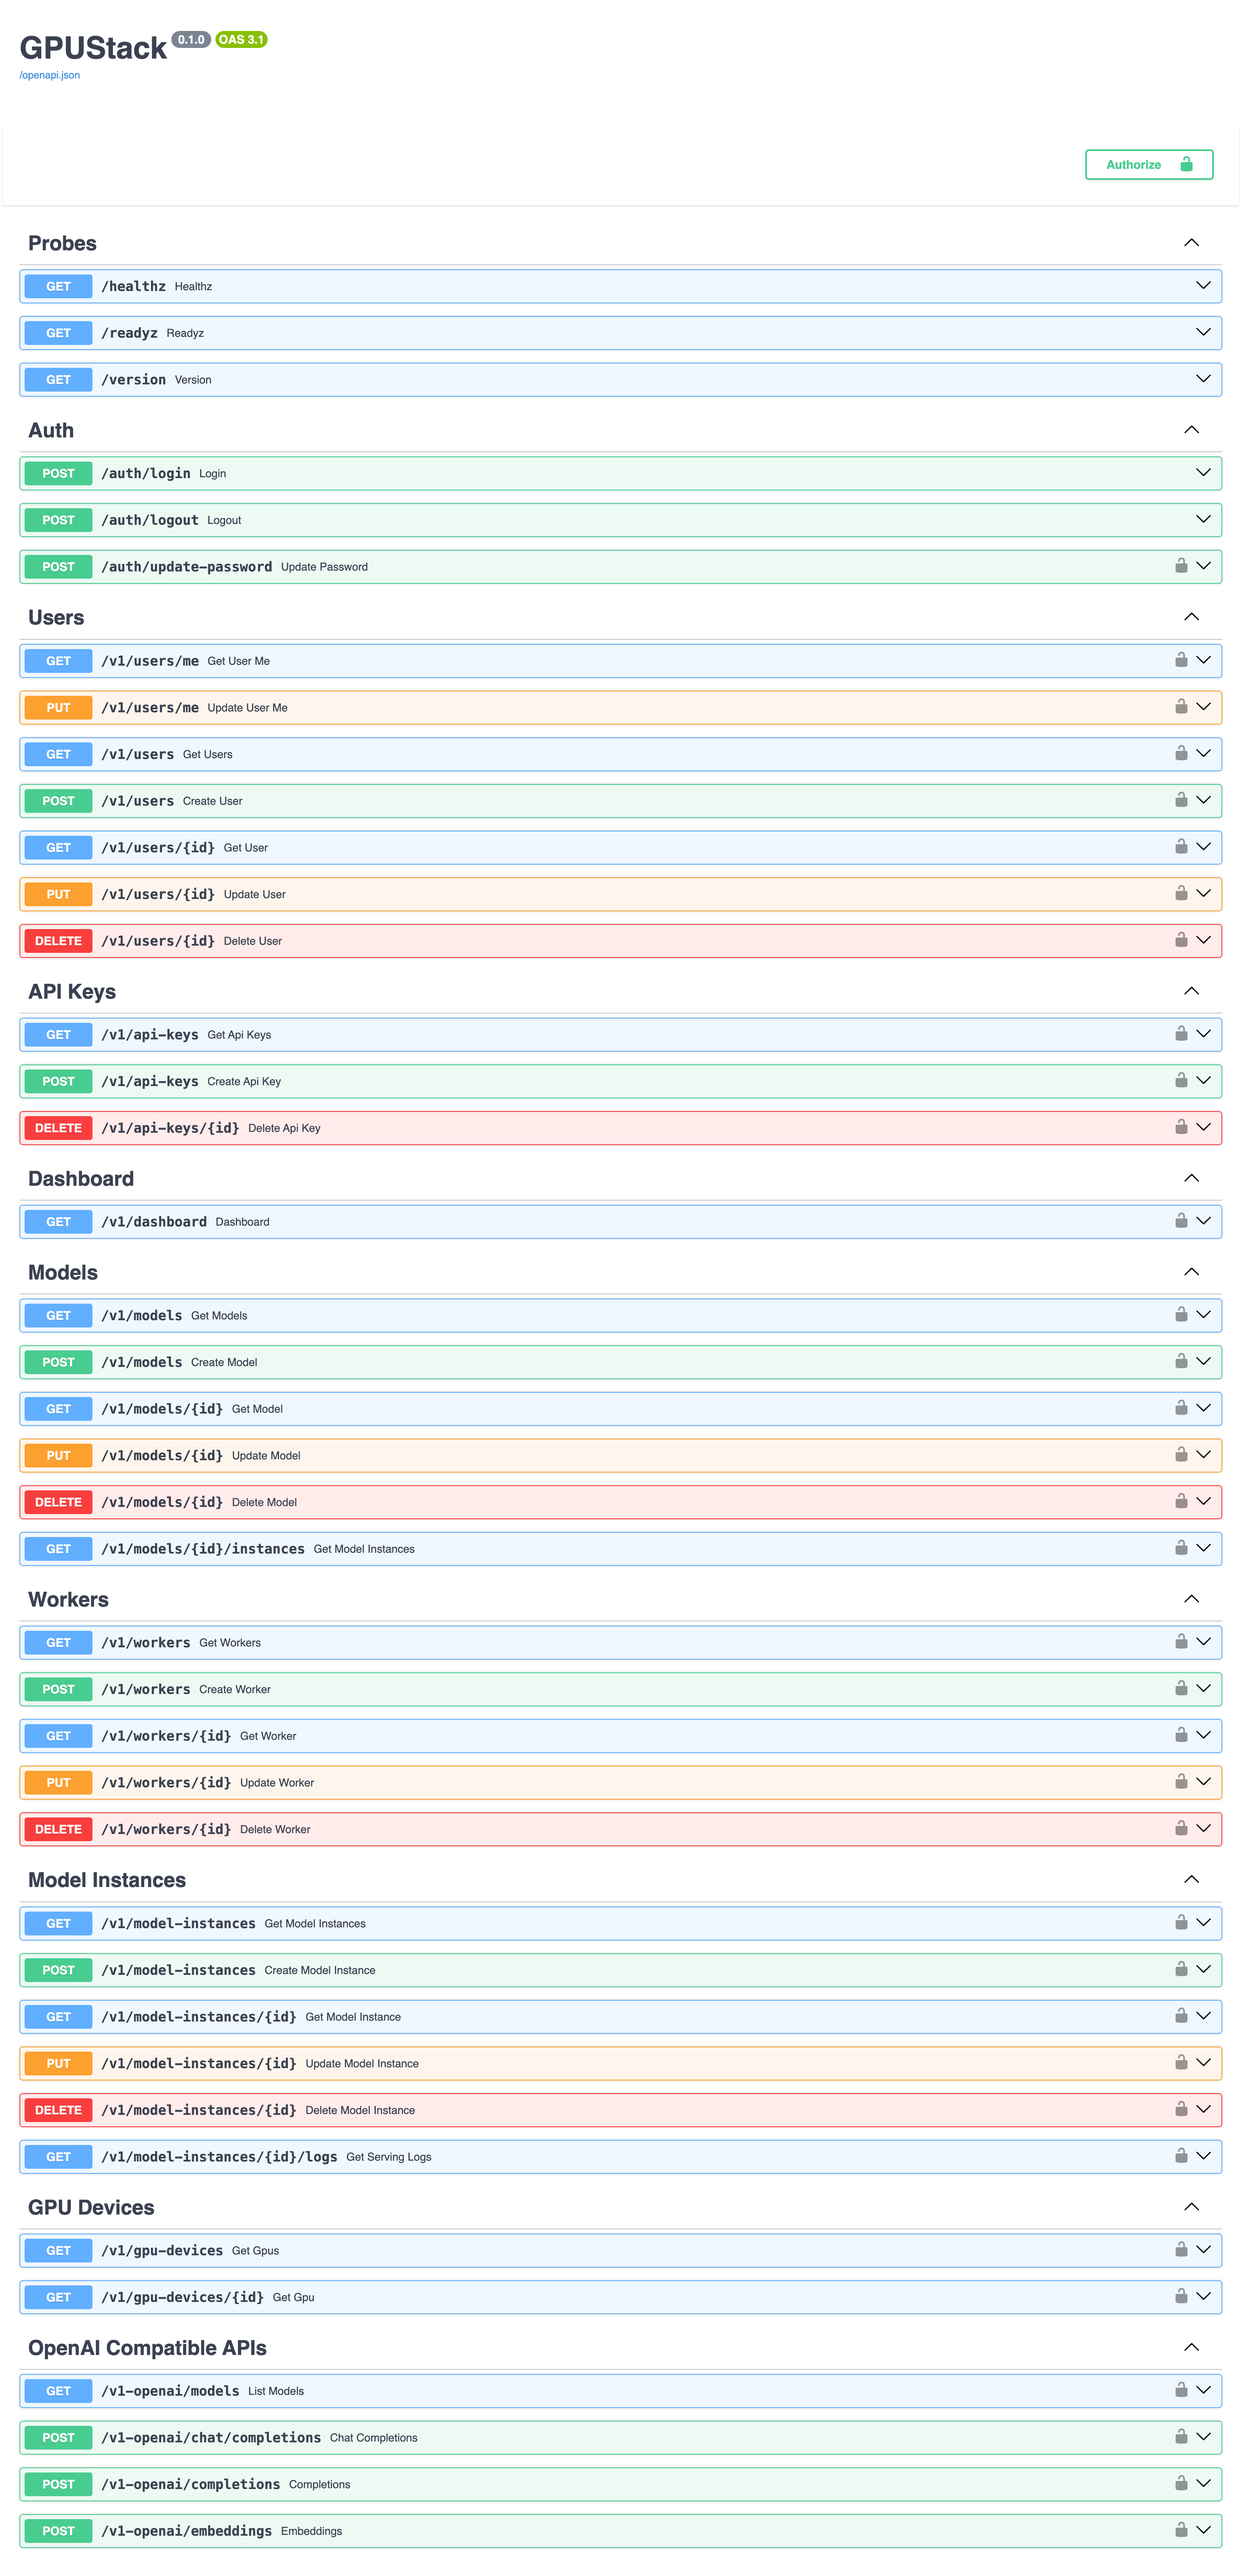
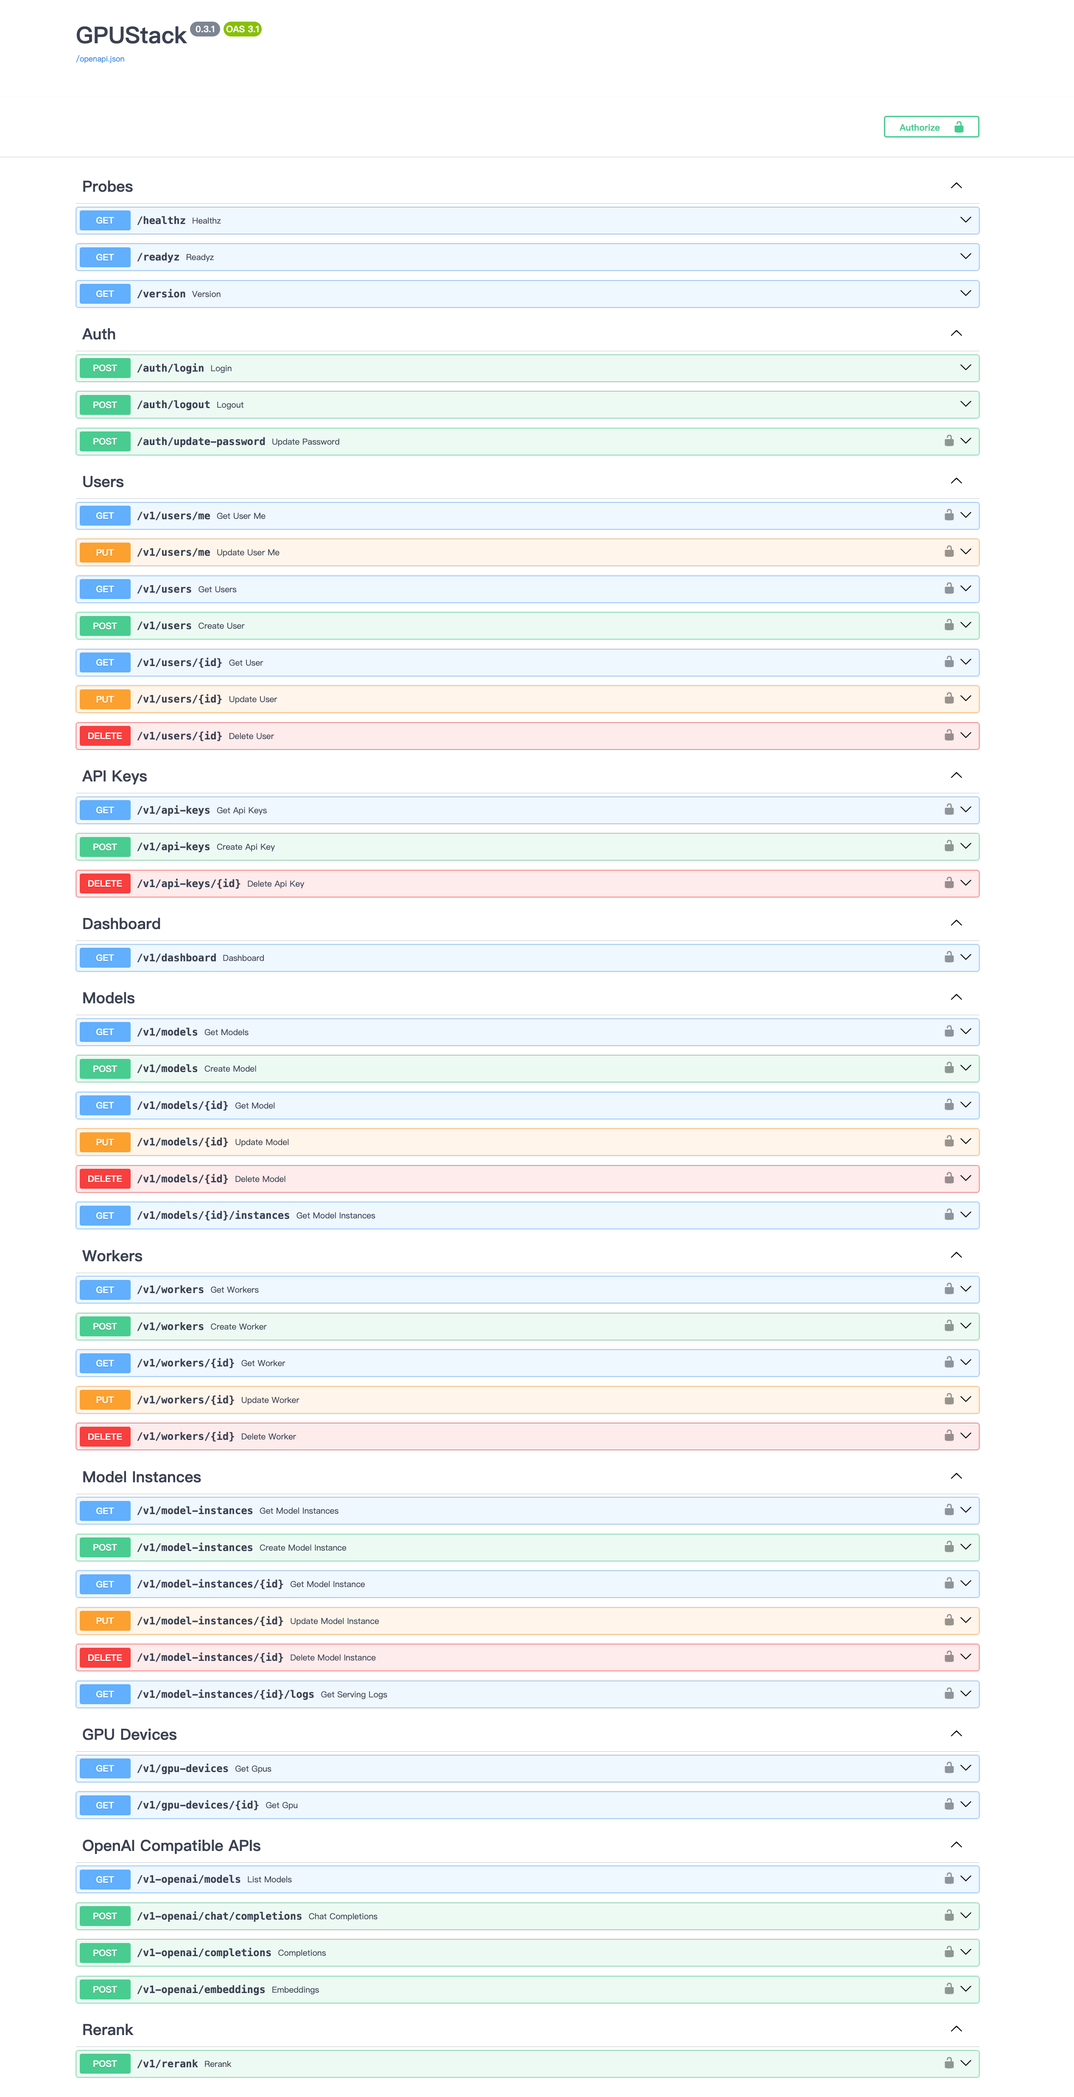
chore: update version in swagger

diff --git a/gpustack/server/app.py b/gpustack/server/app.py
@@ -3,6 +3,7 @@ from fastapi import FastAPI
 from fastapi_cdn_host import monkey_patch_for_docs_ui
 import httpx
 
+from gpustack import __version__
 from gpustack.api import exceptions, middlewares
 from gpustack.routes import ui
 from gpustack.routes.routes import api_router
@@ -15,7 +16,12 @@ async def lifespan(app: FastAPI):
     await app.state.http_client.aclose()
 
 
-app = FastAPI(title="GPUStack", lifespan=lifespan, response_model_exclude_unset=True)
+app = FastAPI(
+    title="GPUStack",
+    lifespan=lifespan,
+    response_model_exclude_unset=True,
+    version=__version__,
+)
 monkey_patch_for_docs_ui(app)
 app.add_middleware(middlewares.RequestTimeMiddleware)
 app.add_middleware(middlewares.ModelUsageMiddleware)
